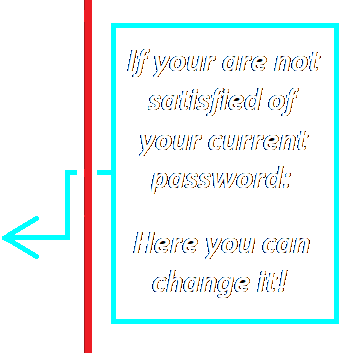
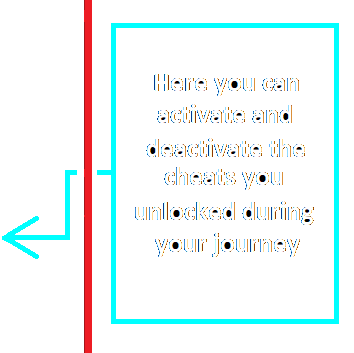
Restructoring the Management Menu
Graphics creation & update

diff --git a/link_functions.py b/link_functions.py
@@ -171,7 +171,7 @@ def manage_account(screen: Af.Surface):
     Af.play(change_menu_sound)
     position_x = (1080 - 260) // 2
     position_y = [y for y in range(155, 600, 70)]
-    effects = ["", "", "add", "change_password", "eliminate_account", "exit3"]
+    effects = ["", "", "manage_gp", "manage_ch", "manage_us", "exit3"]
     buttons = [mc.Button(position_x, y + 20, f"menu/buttons/8/{position_y.index(y) + 1}.png",
                          effects[position_y.index(y)])
                for y in position_y[:len(effects)]]
@@ -258,7 +258,7 @@ def tutorial_lu(screen: Af.Surface):
     return effect
 
 
-# --------------------------------------------- MANAGEMENT -------------------------------------------------------------
+# ----------------------------------------- MANAGEMENT USER ------------------------------------------------------------
 # display the Change Password Menu. It leads to the Management Menu (after password verification)
 def change_password(screen: Af.Surface):
     Af.play(change_menu_sound)
@@ -273,7 +273,7 @@ def change_password(screen: Af.Surface):
     return "manage"
 
 
-# display the Delete Account Menu. It leads to the Main Menu (after password verification) or Management Menu
+# display the Delete Account Menu. It leads to the Main Menu (after password verification) or Management User Menu
 def delete_account(screen: Af.Surface):
     Af.play(change_menu_sound)
     buttons = [mc.Button(240, 410, f"menu/buttons/3/1.png", True),
@@ -288,7 +288,23 @@ def delete_account(screen: Af.Surface):
     return "manage"
 
 
-# display the Add Text Menu. It leads to the Management Menu for both successful and Unsuccessful outcome
+# display the Delete Statistics Menu. It leads to the Management User Menu
+def delete_statistics(screen: Af.Surface):
+    Af.play(change_menu_sound)
+    buttons = [mc.Button(240, 410, f"menu/buttons/3/1.png", True),
+               mc.Button(580, 410, f"menu/buttons/3/2.png", False)]
+    if mc.Exit("menu/exit/delete_account.png", screen, buttons).display_menu():
+        user_name = Af.read_file_content("saves/active_user.txt", 1)[0].split(" ")[0]
+        verification_password = mc.Enter_Password(screen, True).display_menu()
+        if verification_password == "main_menu":
+            Af.play(delete_account_sound)
+            Af.delete_user_account(user_name)
+        return verification_password
+    return "manage"
+
+
+# ---------------------------------------- MANAGEMENT GAMEPLAY ---------------------------------------------------------
+# display the Add Text Menu. It leads to the Management Gameplay Menu for both successful and Unsuccessful outcome
 def add_text(screen: Af.Surface):
     Af.play(change_menu_sound)
     buttons = [mc.Button(335, 495, "/menu/buttons/5/1.png", False),
@@ -296,6 +312,9 @@ def add_text(screen: Af.Surface):
     at = mc.Add_Text(screen, buttons)
     at.display_menu()
     return "manage"
+
+
+# ----------------------------------------- MANAGEMENT CHEATS ----------------------------------------------------------
 
 
 # ----------------------------------------------- GLOBAL ---------------------------------------------------------------
